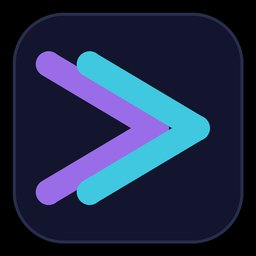
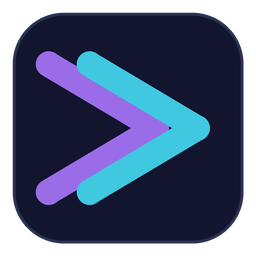
superwarp-companion v0.2.19
### Changed
- **`resources/icon.png` is now generated from `resources/icon.ico`.**
  The two were different exports -- the .ico has transparent rounded
  corners (RGBA), the old .png was a flat opaque square (RGB). The .ico
  is the single source of truth for the logo; the PNG is now its 256x256
  frame with alpha preserved, so the two match. (The window / taskbar /
  alt-tab icon already comes from the .ico via the resource script; the
  in-app header logo remains the crisp vector-painted chevron, which
  scales cleanly at any DPI.)
- **Tighter gap between the chevron logo and the "superwarp" title** in
  the header: the chevron's trailing pad 4 -> 2 and the title now uses an
  explicit 4-unit `SameLine` gap instead of the default ~8, roughly
  halving the space (~27px -> ~14px @ 2.25x).

Claude-Session: https://claude.ai/code/session_01Sosb29T7qYzJLMvQVK8jJz

diff --git a/src/ui_header.cpp b/src/ui_header.cpp
@@ -69,8 +69,8 @@ void ui::Header(App& a)
     const float chev_h = 18.0f * scale;
     const float chev_w = chev_h * 1.15f;
     paint_chevron(ImVec2(origin.x, origin.y + (row_h - chev_h) * 0.5f), chev_h);
-    ImGui::Dummy(ImVec2(chev_w + 4.0f * scale, row_h));
-    ImGui::SameLine();
+    ImGui::Dummy(ImVec2(chev_w + 2.0f * scale, row_h));
+    ImGui::SameLine(0.0f, 4.0f * scale); // tight, controlled gap to the title
 
     // title -- bigger than the rest of the UI to mirror the Rust GUI's
     // monospace(16) vs body monospace(11) ratio.

diff --git a/src/app.h b/src/app.h
@@ -19,7 +19,7 @@
 
 // ---- enums ---------------------------------------------------------------
 
-inline constexpr const char* GUI_VERSION = "0.2.18";
+inline constexpr const char* GUI_VERSION = "0.2.19";
 
 // Base font size we rasterize at (main.cpp's BuildFontAtScale uses BASE_FONT_PX
 // * dpi_scale). UI modules derive the current DPI scale from the actual

diff --git a/CHANGELOG.md b/CHANGELOG.md
@@ -4,6 +4,22 @@ All notable changes to superwarp companion are documented here.
 Format follows [Keep a Changelog](https://keepachangelog.com/); versioning is
 [SemVer](https://semver.org/).
 
+## [0.2.19] - 2026-05-29
+
+### Changed
+- **`resources/icon.png` is now generated from `resources/icon.ico`.**
+  The two were different exports -- the .ico has transparent rounded
+  corners (RGBA), the old .png was a flat opaque square (RGB). The .ico
+  is the single source of truth for the logo; the PNG is now its 256x256
+  frame with alpha preserved, so the two match. (The window / taskbar /
+  alt-tab icon already comes from the .ico via the resource script; the
+  in-app header logo remains the crisp vector-painted chevron, which
+  scales cleanly at any DPI.)
+- **Tighter gap between the chevron logo and the "superwarp" title** in
+  the header: the chevron's trailing pad 4 -> 2 and the title now uses an
+  explicit 4-unit `SameLine` gap instead of the default ~8, roughly
+  halving the space (~27px -> ~14px @ 2.25x).
+
 ## [0.2.18] - 2026-05-29
 
 ### Changed
